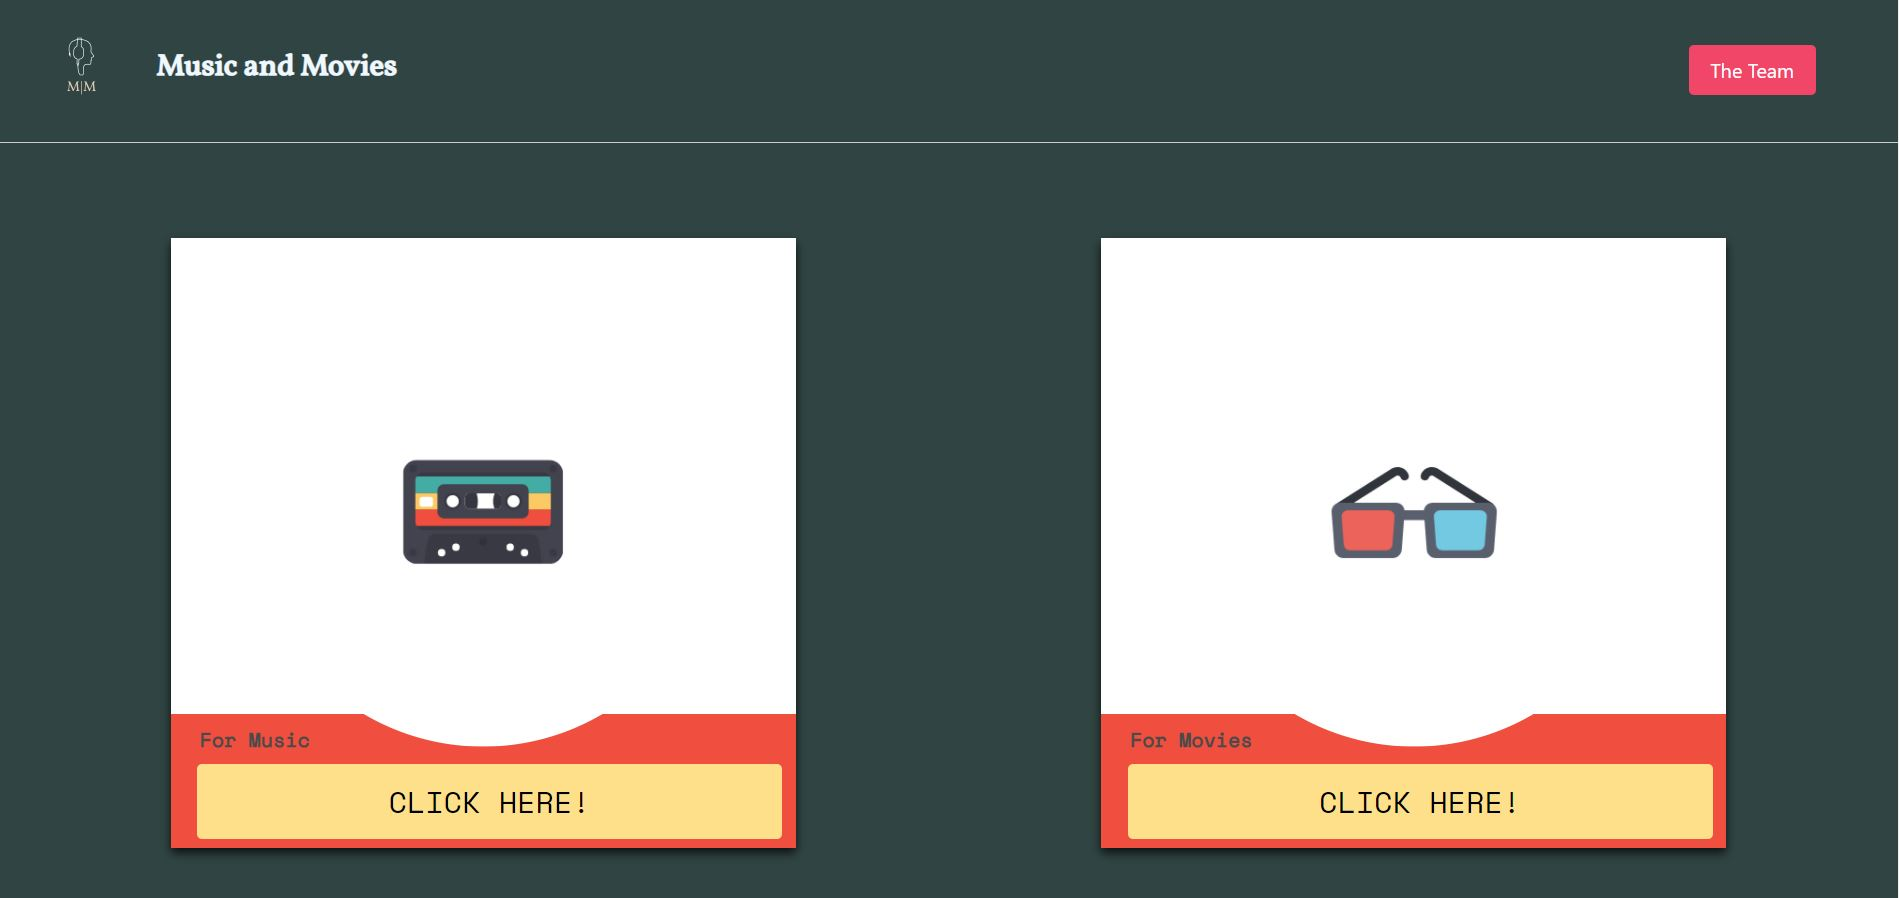
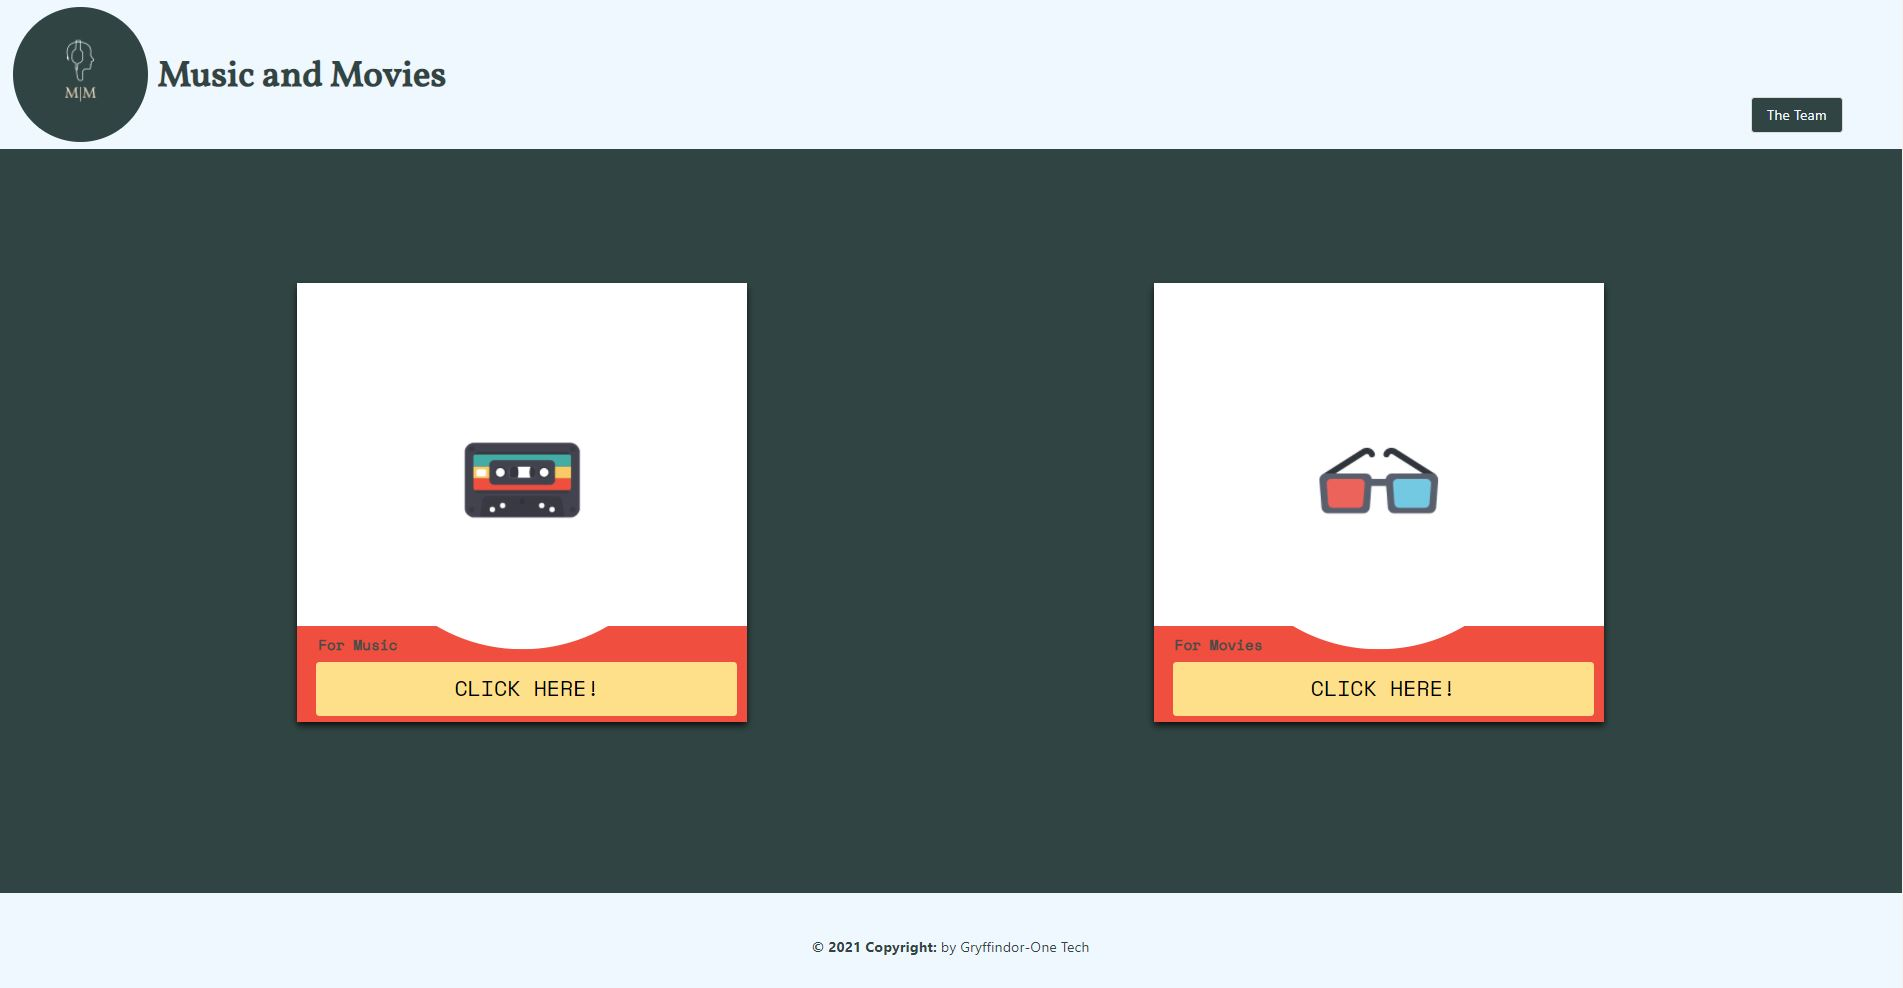
reverted header and footer color to neutral, updated homepage screenshot, added app gif file to assets

diff --git a/css/homepage.css b/css/homepage.css
@@ -18,7 +18,7 @@ body {
 #site-header { 
     /* border-bottom: 1px solid #ccc; */
     padding: .5em 1em;
-    background-color: 	#ced2ba;
+    background-color: aliceblue;
 }
 
 #site-header::after {
@@ -129,7 +129,7 @@ white-space: normal;
 }
 
 .footer {
-    background-color: #ced2ba;;
+    background-color: aliceblue;
 }
 
 .footer a,

diff --git a/README.md b/README.md
@@ -6,9 +6,14 @@ SO THAT I can get a preview of its content</br>
 
 ## Link
 
+
 ## Description
+* This is a user friendly app for users who love entertainment, this app has a music and movie database.
 
 ## Framework
+* Javascript
+* Bulma CDN
+* CSS
 
 ## Acceptance Criteria
 GIVEN a genre dropdown with form inputs</br>
@@ -31,8 +36,11 @@ Hoa Pham</br>
 Craig Jensen</br>
 Miguel Osorio</br>
 
+## GIF
+![Demo]()
+
 ## Screenshot
-![homepage](https://user-images.githubusercontent.com/91167771/147129952-a46f9850-ce91-4d42-bcd7-2212aafbe8bc.JPG)
+![homepage]()
 
 ![movie](https://user-images.githubusercontent.com/91167771/147129923-ded48fc6-c293-46f1-8839-d7ddab6ea0a0.JPG)
 
